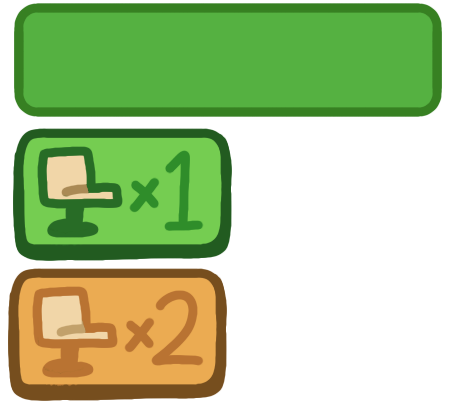
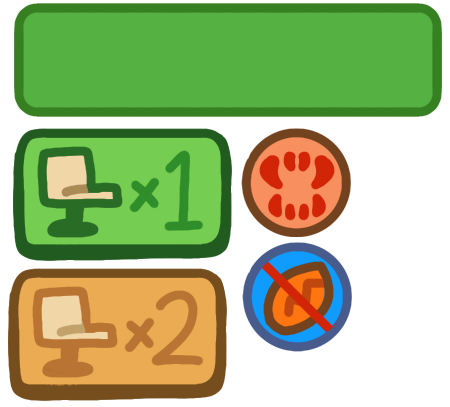
non crusty tags

Changed region(s): [[0.5289, 0.2948, 0.8089, 0.8845]]

diff --git a/Assets/Code/Scripts/Crabs/CrabController.cs b/Assets/Code/Scripts/Crabs/CrabController.cs
@@ -213,6 +213,8 @@ public class CrabController : MonoBehaviour
         ticket.GetComponent<Ticket>().PushBack();
         id.GetComponent<ID>().BringForward();
 
+        #region FRAUD
+
         // SOMETIMES GENERATE MISMATCHING INFO
         string crabName = crabInfo.crabName;
         Sprite crabPhoto = crabInfo.sprite;
@@ -253,6 +255,9 @@ public class CrabController : MonoBehaviour
             id.GetComponent<ID>().SetName(crabName);
         }
 
+        #endregion
+
+        #region IMPORTANT CHARACTER
         if (crabInfo.isImportantCharacter) // no forgery if they're special
         {
             string name = Constants.instance.specialEnumToStringName[crabInfo.specialCharacterType];
@@ -266,6 +271,9 @@ public class CrabController : MonoBehaviour
             id.GetComponent<ID>().SetIDPhoto(crabPhoto);
         }
 
+        #endregion
+
+        #region SEAT TAG
         // seat number tag
         if (crabInfo.isMultiple || crabInfo.isLarge)
         {
@@ -276,9 +284,43 @@ public class CrabController : MonoBehaviour
             id.GetComponent<ID>().SetSeatType(ID.SeatType.singleSeat);
         }
 
+        #endregion
 
-        // TRAIN CART TYPE FORGERY (OR NOT)
-        cartType = LevelManagerBase.instance.GetRandomCurrentCartType();
+        #region NON CRUST TAG
+        int currDay = SaveManager.instance.GetProgression_CurrDay();
+
+        if (currDay > 10)
+        {
+            if (crabInfo.plotLevel == CrabInfo.PlotLevel.predator)
+            {
+                id.GetComponent<ID>().SetNonCrustType(ID.NonCrustType.pred);
+            }
+            else if (crabInfo.plotLevel == CrabInfo.PlotLevel.nonCrustacean)
+            {
+                id.GetComponent<ID>().SetNonCrustType(ID.NonCrustType.nonCrust);
+            }
+            else
+            {
+                id.GetComponent<ID>().SetNonCrustType(ID.NonCrustType.normal);
+            }
+        }
+        else if (currDay > 5)
+        {
+            if (crabInfo.plotLevel == CrabInfo.PlotLevel.predator)
+            {
+                id.GetComponent<ID>().SetNonCrustType(ID.NonCrustType.pred);
+            }
+            else
+            {
+                id.GetComponent<ID>().SetNonCrustType(ID.NonCrustType.normal);
+            }
+        }
+
+            #endregion
+
+
+            // TRAIN CART TYPE FORGERY (OR NOT)
+            cartType = LevelManagerBase.instance.GetRandomCurrentCartType();
 
         if (!isShuttle) ticket.GetComponent<Ticket>().SetSprite(cartType);
         else cartType = Cart.Type.Shuttle;

diff --git a/Assets/Code/Scripts/Crabs/ID.cs b/Assets/Code/Scripts/Crabs/ID.cs
@@ -28,6 +28,18 @@ public class ID : MonoBehaviour
     }
     private SeatType seatType;
 
+    [SerializeField] private Image nonCrustaceanImage;
+    [SerializeField] private Image nonCrustaceanImageMagnify;
+    [SerializeField] private Sprite[] nonCrustSprites;
+
+    public enum NonCrustType
+    {
+        pred,
+        nonCrust,
+        normal
+    }
+    private NonCrustType nonCrustType;
+
     public void SetSeatType(SeatType newSeatType)
     {
         seatType = newSeatType;
@@ -35,6 +47,24 @@ public class ID : MonoBehaviour
         Sprite sprite = seatTypeSprites[(int)seatType];
         seatTypeImage.sprite = sprite;
         seatTypeImageMagnify.sprite = sprite;
+    }
+
+    public void SetNonCrustType(NonCrustType newNonCrustType)
+    {
+        nonCrustType = newNonCrustType;
+
+        if (nonCrustType == NonCrustType.normal)
+        {
+            nonCrustaceanImage.gameObject.SetActive(false);
+            nonCrustaceanImageMagnify.gameObject.SetActive(false);
+            return;
+        }
+
+        nonCrustaceanImage.gameObject.SetActive(true);
+        nonCrustaceanImageMagnify.gameObject.SetActive(true);
+        Sprite sprite = nonCrustSprites[(int)nonCrustType];
+        nonCrustaceanImage.sprite = sprite;
+        nonCrustaceanImageMagnify.sprite = sprite;
     }
 
     public void SetName(string newName)

diff --git a/Assets/Code/Scripts/Managers/PerformanceManager.cs b/Assets/Code/Scripts/Managers/PerformanceManager.cs
@@ -236,7 +236,7 @@ public class PerformanceManager : MonoBehaviour
         numTransportText.text = mistakes[MistakeType.transport].ToString();
         numSeatingText.text = mistakes[MistakeType.seating].ToString();
 
-        if (SaveManager.instance.GetProgression_CurrDay() >= 10)
+        if (SaveManager.instance.GetProgression_CurrDay() >= 6)
         {
             numShuttleText.text = mistakes[MistakeType.plot].ToString();
         }
